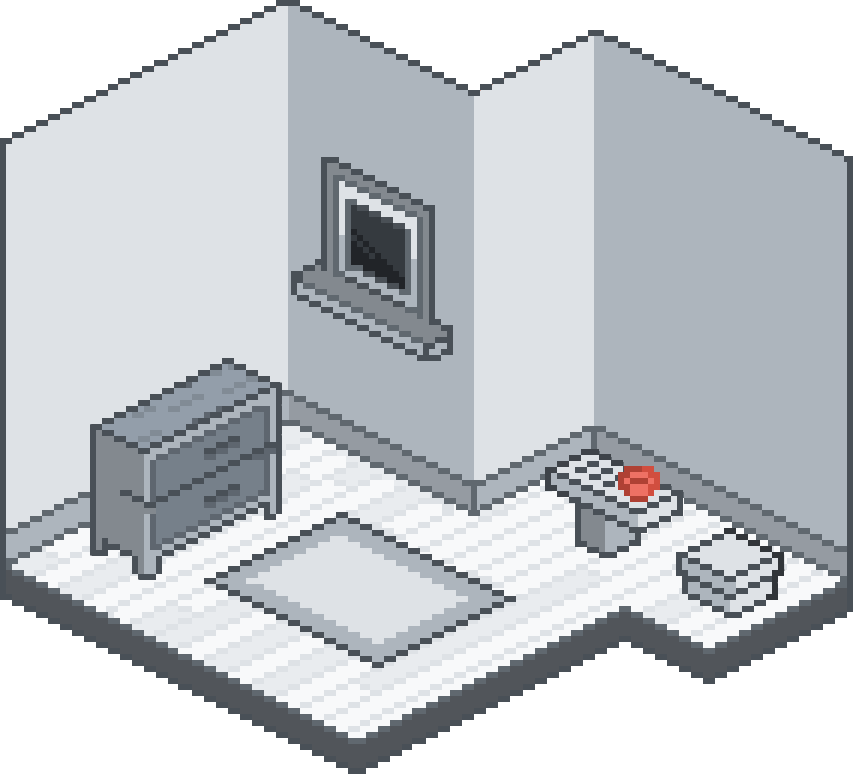
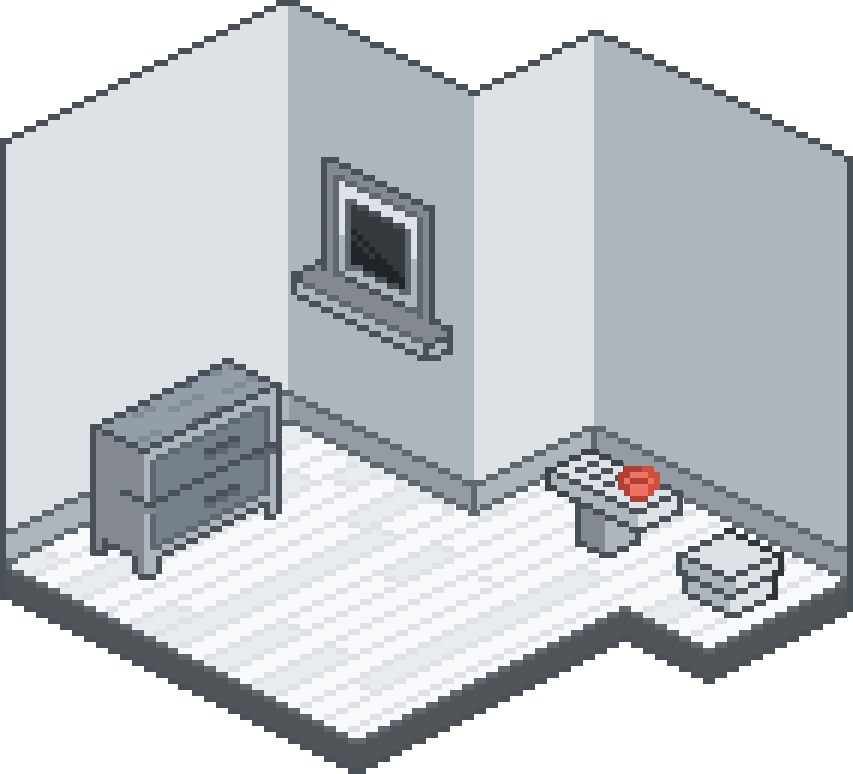
Feature: Added images for the cabinet and rug

Changed region(s): [[0.2438, 0.6512, 0.6096, 0.8682]]

diff --git a/src/main/java/nz/ac/auckland/se206/controllers/RoomController.java b/src/main/java/nz/ac/auckland/se206/controllers/RoomController.java
@@ -46,6 +46,14 @@ public class RoomController extends ControllerMethods {
   @FXML private ImageView portalBaseOutline;
   @FXML private ImageView portal;
   @FXML private ImageView portalOutline;
+  @FXML private ImageView cabinetOpenedEmpty;
+  @FXML private ImageView cabinetOpenedEmptyOutline;
+  @FXML private ImageView cabinetOpenedWithOrb;
+  @FXML private ImageView cabinetOpenedWithOrbOutline;
+  @FXML private ImageView cabinetOrbSelected;
+  @FXML private ImageView floorBlueOrb;
+  @FXML private ImageView floorBlueOrbOutline;
+  @FXML private ImageView floorRug;
 
   // Book Items:
   @FXML private ImageView book;
